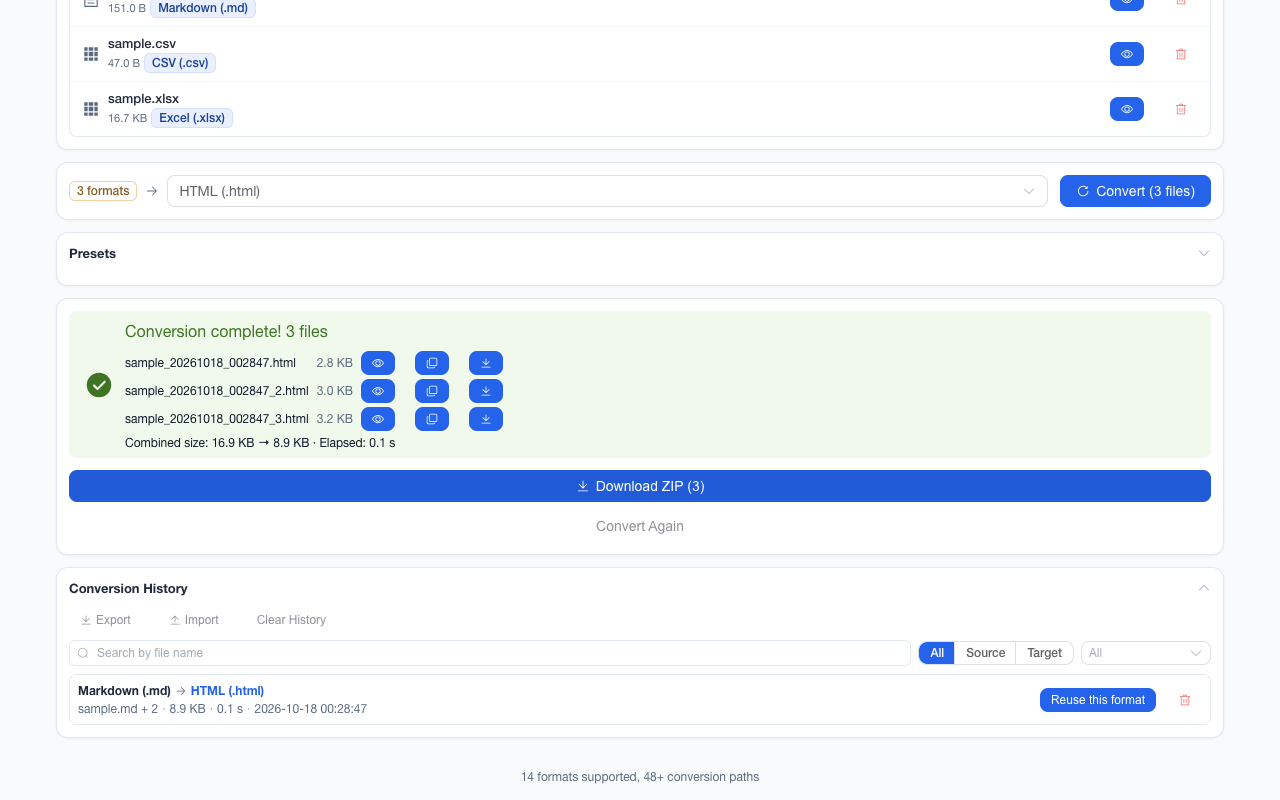
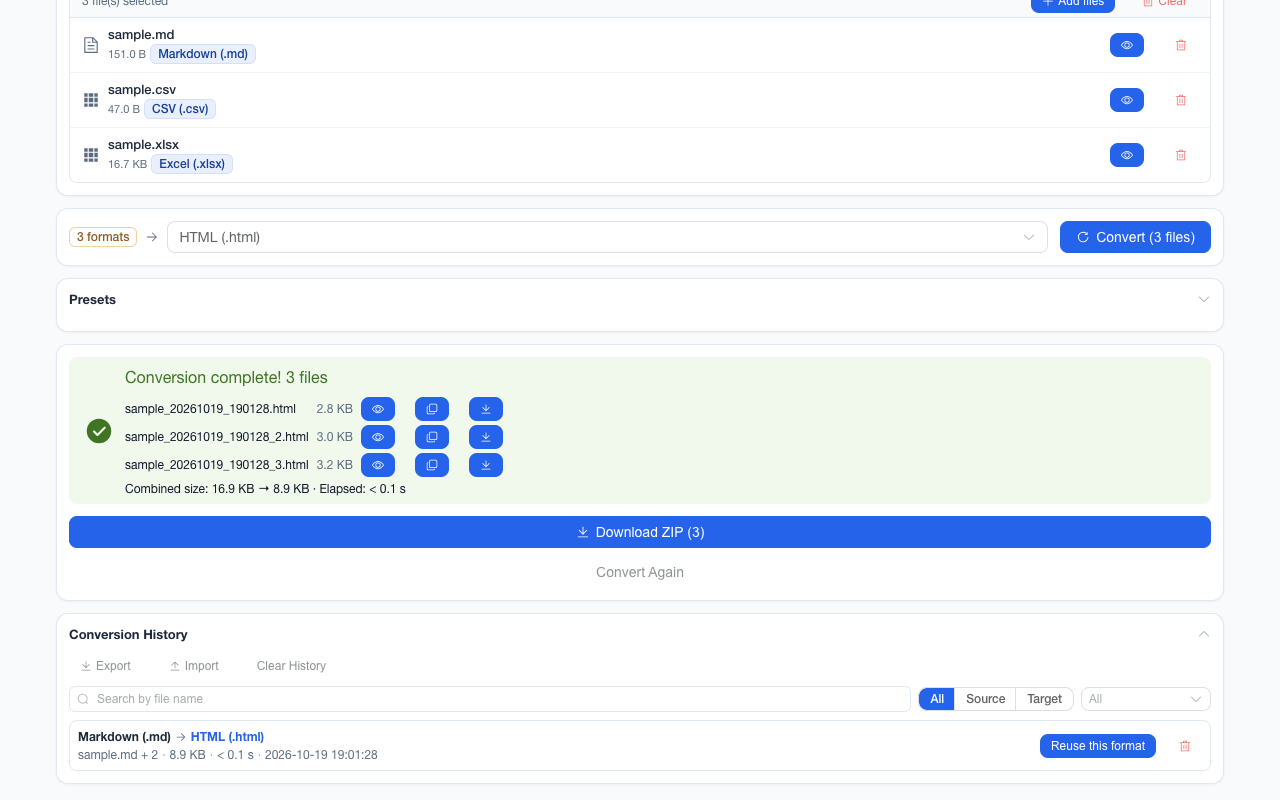
feat(ui): 格式数与路径数那行字从页脚搬进空态拖放区，五处耦合一起跟上
判据不是审美。这行字回答的是「我这格式能不能转」，而这个疑问在放入文件**之前**产生；页脚在 900px 高的
窗口里位于折叠区之外，等于从来没被读到。顶栏不是落点——它不 sticky，而且已经载着副标题那一行价值主张。
放入文件之后，目标下拉列出的是这批文件真正可达的目标，那本来就是比全局计数更强的信息，所以这行只在
空态出现一次，不随状态位移。

一次挪动的真实半径是五处，没有一处是编译器会管的：

- `utils/i18n/{zh,en}.ts`：键从 `footer.stats` 改成 `upload.stats`（`en.ts` 是 `typeof zh`，只改一边即编译红）。
- `App.vue`：删 `<footer>` 与它的两条规则，并把 `.footer` 从主题过渡的选择器组里摘出来——那段注释也点名了
  页脚，一起改，否则注释又是一句不成立的主张。
- `FileUpload.vue`：收两个 `number` props。数值**仍由 `App.vue` 的 `formatCount`/`pathCount` 算出后传下去**，
  因为对外文档引用的取证位置就是这两个量；渲染点挪了，取证点没挪。计数为 0 时整行不渲染——空注册表万一
  先渲染，屏幕上就会写着「支持 0 种格式」。
- `scripts/e2e-test.mjs`：三处读点换选择器（能力计数那一条，加中英两次语言切换的复读）。
- `INFO_TEXT` 那五个正文信息文字采样点里 `.footer` 换成 `.drop-stats`。这条最要紧：**删而不换会让「五组
  对比度」那句对外主张变成 overstated**，而没有任何门会红。

数值 1:1 迁移，断言总数仍是 358（换判据不等于改契约），所以那十句对外散文一个字没动。素材按规则重拍：
这一行落在被拍的 `workbench-empty` 屏的像素上，24 张全更新，取证行现在由脚本自己打
`workbench drop zone reports: "14 formats supported, 48+ conversion paths"`。

顺带一处守卫口径修正：`check-prose-numbers.mjs` 的 `routes` 中文模式原先**要求量词「条」**，而界面自己写的
是「48+ 转换路径」——凡逐字引用界面文案的句子，守卫都读不到。把量词改成可选之后 57 份文档的计数一格没变
（说明它只是终于看见了那行字，不是放进来了新的误报），`AGENTS.md`、两份 README 与商店表里的取证句同步改写。

一条接受而非修掉的副作用：拖放板是 `role="button"`，可访问名由内容算出，所以这一行会进按钮名。它与粘贴
提示同属板内既有形状；给它 `aria-hidden` 等于把信息对读屏整体抹掉，给板加 `aria-label` 又是另一处可见
行为，两者都没做。

验证：`lint:all`（typecheck + eslint + stylelint + format:check）、`build`、两道离线守卫与两道远程代码守卫
（产物 manifest 仍只有 `storage`）、`verify:paths`、`verify:numbers`（23 事实 × 57 份散文）、`verify:listing`、
[…]

diff --git a/entrypoints/options/App.vue b/entrypoints/options/App.vue
@@ -425,6 +425,8 @@ onUnmounted(() => {
             <FileUpload
               ref="fileUploadRef"
               :disabled="isConverting"
+              :formats="formatCount"
+              :paths="pathCount"
               @update:files="handleFilesUpdate"
             />
           </div>
@@ -627,10 +629,6 @@ onUnmounted(() => {
         </div>
       </main>
 
-      <footer class="footer">
-        {{ t('footer.stats', { formats: formatCount, paths: pathCount }) }}
-      </footer>
-
       <Transition name="fat-fade">
         <div
           v-if="isWorkspaceDragging"
@@ -831,19 +829,10 @@ onUnmounted(() => {
   margin-top: var(--fat-space-xs);
 }
 
-.footer {
-  max-width: 1200px;
-  margin: 0 auto;
-  text-align: center;
-  padding: var(--fat-space-lg);
-  font-size: 12px;
-  color: var(--fat-text-secondary);
-}
-
 /* Theme and light/dark switching rewrite every `--fat-*` colour in one frame. The interactive
    surfaces already tween their colours, so a theme change visibly fell apart into two groups: the
-   buttons, chips and inputs slid over 0.18s while the page, the topbar, the cards and the footer
-   snapped instantly. These are the permanently-painted surfaces that carry the theme, and they were
+   buttons, chips and inputs slid over 0.18s while the page, the topbar and the cards snapped
+   instantly. These are the permanently-painted surfaces that carry the theme, and they were
    the ones left out.
    Three named properties rather than `--fat-transition`: that shorthand also carries `transform`,
    and `.card` is the element the `card` transition below animates — a competing transform transition
@@ -852,8 +841,7 @@ onUnmounted(() => {
    stays inside the settle window the contrast measurements in `scripts/e2e-test.mjs` wait out. */
 .workbench,
 .topbar,
-.card,
-.footer {
+.card {
   transition:
     background-color var(--fat-duration-slow) var(--fat-ease-standard),
     border-color var(--fat-duration-slow) var(--fat-ease-standard),

diff --git a/components/shared/FileUpload.vue b/components/shared/FileUpload.vue
@@ -21,8 +21,12 @@ const props = withDefaults(
     multiple?: boolean;
     /** Blocks all file intake (click/drop/paste), e.g. while converting */
     disabled?: boolean;
+    /** Registry counts rendered under the drop hint. Passed in rather than computed here because the
+     * workbench's own numbers are the provenance the outward docs cite for "14 formats / 48+ paths". */
+    formats?: number;
+    paths?: number;
   }>(),
-  { multiple: true, disabled: false },
+  { multiple: true, disabled: false, formats: 0, paths: 0 },
 );
 
 const emit = defineEmits<{
@@ -486,6 +490,14 @@ defineExpose({
       </el-icon>
       <p class="drop-text">{{ dropText }}</p>
       <p class="paste-hint">{{ t('upload.pasteHint', { key: pasteKey }) }}</p>
+      <!-- A zero would be a lie, and an empty registry is reachable if this ever renders before
+           `initConverters()` — so the line is gated on both counts, not printed as "0 formats". -->
+      <p
+        v-if="formats > 0 && paths > 0"
+        class="drop-stats"
+      >
+        {{ t('upload.stats', { formats, paths }) }}
+      </p>
     </div>
     <input
       id="file-upload-input"
@@ -662,6 +674,16 @@ defineExpose({
 }
 
 .paste-hint {
+  color: var(--fat-text-secondary);
+  margin: var(--fat-space-xs) 0 0;
+  font-size: 12px;
+}
+
+/* The capability line sits with the drop hint rather than in a page footer: the doubt it answers
+   ("我这格式能不能转") arises before anything is placed, and the footer was below the fold in a
+   900px window. Same ink and size as its sibling above, so the contrast contract keeps sampling
+   one shape — `.drop-stats` took `.footer`'s place in that list. */
+.drop-stats {
   color: var(--fat-text-secondary);
   margin: var(--fat-space-xs) 0 0;
   font-size: 12px;

diff --git a/utils/i18n/zh.ts b/utils/i18n/zh.ts
@@ -21,6 +21,9 @@ export default {
     drop: '拖拽文件或文件夹到此处，或点击选择文件',
     replace: '点击或拖拽以替换文件',
     pasteHint: '也可以直接 {key} 粘贴图片或文本',
+    /** Rendered in the empty drop zone, not the page footer: the doubt it answers ("我这格式能不能转")
+     arises before a file is placed, and the footer sits below the fold on a 900px window. */
+    stats: '支持 {formats} 种格式，{paths}+ 转换路径',
     selectedCount: '已选择 {count} 个文件',
     unknownFormat: '未知格式',
     unknownFormatNotice: '有 {count} 个文件无法识别格式，将无法转换',
@@ -385,7 +388,4 @@ export default {
   },
 
   // Footer
-  footer: {
-    stats: '支持 {formats} 种格式，{paths}+ 转换路径',
-  },
 };

diff --git a/utils/i18n/en.ts b/utils/i18n/en.ts
@@ -18,6 +18,7 @@ const en: typeof zh = {
     drop: 'Drop files or a folder here, or click to select',
     replace: 'Click or drag to replace files',
     pasteHint: 'You can also paste an image or text with {key}',
+    stats: '{formats} formats supported, {paths}+ conversion paths',
     selectedCount: '{count} file(s) selected',
     unknownFormat: 'Unknown format',
     unknownFormatNotice: '{count} file(s) have an unrecognized format and cannot be converted',
@@ -367,10 +368,6 @@ const en: typeof zh = {
     // Accessible names for controls with no visible label (el-select, etc.)
     targetFormat: 'Target format',
     historyFormatFilter: 'Filter history by format',
-  },
-
-  footer: {
-    stats: '{formats} formats supported, {paths}+ conversion paths',
   },
 };
 

diff --git a/AGENTS.md b/AGENTS.md
@@ -145,7 +145,7 @@
   缺产物即失败），别用「源码没 fetch」推「包是干净的」；构建期那条正则也可能随版本静默失配，守卫就是它的兜底。
   反方向的过度反应同样要避免：jszip 的空 `<script>` 调度垫片、lodash 的 `Function('return this')()`、SheetJS 的
   XML 命名空间字符串都不是远程取来的代码，不要顺手清掉或加进守卫。
-- **对外文案数字要取证**：格式数 14 / 路径数 48+ 来自工作台页脚（`App.vue` 的 `formatCount`/`pathCount`，当前精确值为 14 与 48）；143 是同一邻接图的 BFS 传递闭包（每种源格式除自身外可达全部 11 种可写格式），**但 143 不能写成"可选/可用"**——`availableTargets` 还会经 `utils/core/conversion-policy.ts` 去掉 27 个语义无效组合（24 个图片 → TXT/CSV/JSON/XLSX + 3 个 PDF → CSV/JSON/XLSX），界面实际提供 **116** 个；体积来自 `pnpm build` 输出，阈值来自 `FileUpload.vue`（100MB 拒绝 / 20MB 警告 / 200 文件上限）与 `useConversion.ts`（>5 文件或 >20MB 弹确认），ZIP 压缩收益来自 `utils/core/format.ts` 的 JSDoc 实测记录；改这些常量时同步改 `README*`、`docs/*`、`.github/CHROMEWEBSTORE.md`。**这条口径现在由 `pnpm verify:numbers` 执行**：23 个数字全部现推（`FileFormat` 枚举、路径基线、`conversion-policy`、各处常量、主题数，按 `verify:listing` 同一种量法测出的两份商店详描字符数，以及 `scripts/e2e-test.mjs` 在一轮完整绿灯运行末尾记下的断言总数——这一个是测试跑出来的事实，源码答不了它），比对 57 份对外散文（含 `docs/convert/` 的 36 个生成页、`docs/privacy.html`、`docs/blog/index.html`、`docs/diff/index.html` 与两份 `docs/promo/community-posts*.md`——生成页由 `generatedPages('convert')` 枚举，缺目录即失败而不是静默跳过；`docs/diff/index.html` 不在那一路，它是 `tools/file-diff.html` 的逐字节副本，只能点名收进 `DOCS`，不点名就等于这张对外页不在射程内），`scripts/__baseline__/prose-number-quotes.json` 还记着每份文档每类句子今天被引到几次——句子被改写走到处查不到，就是基线 diff 里少掉的那一格。历史陈述不在射程内（CHANGELOG 的 1.0.0 段、`.github/CHROMEWEBSTORE.md` 的版本历史与拒审记录按文件排除）。
+- **对外文案数字要取证**：格式数 14 / 路径数 48+ 印在工作台空态的拖放区（`FileUpload.vue` 的 `.drop-stats`，数值仍由 `App.vue` 的 `formatCount`/`pathCount` 算出后作 props 传下去，当前精确值为 14 与 48；这行字原先在页脚，因为 900px 高的窗口里它在折叠区之外而挪了上来）；143 是同一邻接图的 BFS 传递闭包（每种源格式除自身外可达全部 11 种可写格式），**但 143 不能写成"可选/可用"**——`availableTargets` 还会经 `utils/core/conversion-policy.ts` 去掉 27 个语义无效组合（24 个图片 → TXT/CSV/JSON/XLSX + 3 个 PDF → CSV/JSON/XLSX），界面实际提供 **116** 个；体积来自 `pnpm build` 输出，阈值来自 `FileUpload.vue`（100MB 拒绝 / 20MB 警告 / 200 文件上限）与 `useConversion.ts`（>5 文件或 >20MB 弹确认），ZIP 压缩收益来自 `utils/core/format.ts` 的 JSDoc 实测记录；改这些常量时同步改 `README*`、`docs/*`、`.github/CHROMEWEBSTORE.md`。**这条口径现在由 `pnpm verify:numbers` 执行**：23 个数字全部现推（`FileFormat` 枚举、路径基线、`conversion-policy`、各处常量、主题数，按 `verify:listing` 同一种量法测出的两份商店详描字符数，以及 `scripts/e2e-test.mjs` 在一轮完整绿灯运行末尾记下的断言总数——这一个是测试跑出来的事实，源码答不了它），比对 57 份对外散文（含 `docs/convert/` 的 36 个生成页、`docs/privacy.html`、`docs/blog/index.html`、`docs/diff/index.html` 与两份 `docs/promo/community-posts*.md`——生成页由 `generatedPages('convert')` 枚举，缺目录即失败而不是静默跳过；`docs/diff/index.html` 不在那一路，它是 `tools/file-diff.html` 的逐字节副本，只能点名收进 `DOCS`，不点名就等于这张对外页不在射程内），`scripts/__baseline__/prose-number-quotes.json` 还记着每份文档每类句子今天被引到几次——句子被改写走到处查不到，就是基线 diff 里少掉的那一格。历史陈述不在射程内（CHANGELOG 的 1.0.0 段、`.github/CHROMEWEBSTORE.md` 的版本历史与拒审记录按文件排除）。
 
 ## 完成标准
 

diff --git a/.github/CHROMEWEBSTORE.md b/.github/CHROMEWEBSTORE.md
@@ -549,7 +549,7 @@ caption 条是叠上去的，不是裁出来的：界面保持完整的 1280×80
 
 ### 逐张说明
 
-1. `workbench-empty` —— 首次打开的状态：顶栏品牌 + 副标题、拖放区、空历史，以及「支持 14 种格式，48+ 条转换路径」的页脚。给全新用户设定预期。
+1. `workbench-empty` —— 首次打开的状态：顶栏品牌 + 副标题、拖放区（含「支持 14 种格式，48+ 转换路径」那一行）、空历史。给全新用户设定预期。
 2. `batch-files` —— 三个混格式文件（Markdown + CSV + Excel）配一个目标，展示多数转换器缺的批量能力。
 3. `batch-results` —— 「转换完成！3 个文件」，带逐文件的预览 / 复制 / 下载，以及一个「打包下载 ZIP (3)」。
 4. `preview-edit` —— 源 ↔ 结果左右对照，带 渲染 / 源码 / 编辑 / 复制 控件。最强的差异点，也是产品说明页的主图。
@@ -818,7 +818,7 @@ rm -f /tmp/cws.cfg
   路，代价是那张图在 .docx 与 .md 里是位图，放大不再是矢量。README 与产品页同步写明这一点。
 - 五组对比度由端到端套件在 6 主题色 × 浅/深（12 种组合）下断言：顶栏品牌文字对顶栏 ≥ 4.5:1；主按钮标签在
   常态 / hover / 按下三态 ≥ 4.5:1（取自已启用的按钮，因为文本规则豁免禁用控件）；卡片上的焦点环 ≥ 3:1；
-  正文信息文字（拖放提示、文件大小、页脚等五串）对各自底色 ≥ 4.5:1；Element Plus 浅色效果的警示框标题与
+  正文信息文字（拖放提示、文件大小、拖放区那行能力计数等五串）对各自底色 ≥ 4.5:1；Element Plus 浅色效果的警示框标题与
   文件行的格式标签（同一支语义色同时当墨与底）对各自的浅色底 ≥ 4.5:1。
   最差实测值（2026-09-14）：4.70:1。已知缺口：控件的填充色还需要与它底下的表面满足 3:1（WCAG 1.4.11），
   12 种组合里 10 种满足，浅森林绿与橙色按钮不满足（2.21 / 2.96:1）——这一点写在 README 里，而不是当作已达标呈现。

diff --git a/README.en.md b/README.en.md
@@ -80,7 +80,7 @@ Most "free online converter" sites ask you to upload the file first. That is fin
   <a href="docs/assets/screenshots/workbench-empty.png"><img src="docs/assets/screenshots/workbench-empty.png" alt="The empty workbench: a drop zone inviting files, a target-format picker beside it, and the history card below" width="49%" /></a>
   <a href="docs/assets/screenshots/batch-files.png"><img src="docs/assets/screenshots/batch-files.png" alt="Three mixed-format files staged in the workbench: sample.md, sample.csv and sample.xlsx, with HTML selected as the target format" width="49%" /></a>
   <br />
-  <sub><b>Left: drop, pick a format, convert on your own machine</b> (the footer derives the format and route counts) ｜ <b>Right: Markdown, CSV and Excel in one run</b> (each file resolves its own route to the shared target)</sub>
+  <sub><b>Left: drop, pick a format, convert on your own machine</b> (the drop zone shows the format and route counts) ｜ <b>Right: Markdown, CSV and Excel in one run</b> (each file resolves its own route to the shared target)</sub>
 </p>
 
 <p align="center">

diff --git a/README.md b/README.md
@@ -79,7 +79,7 @@
   <a href="docs/assets/screenshots/workbench-empty.png"><img src="docs/assets/screenshots/workbench-empty.png" alt="空白的工作台：邀请拖入文件的上传区、旁边的目标格式选择器，以及下方的历史记录卡片" width="49%" /></a>
   <a href="docs/assets/screenshots/batch-files.png"><img src="docs/assets/screenshots/batch-files.png" alt="工作台中已加入三个混合格式文件：sample.md、sample.csv 与 sample.xlsx，目标格式选为 HTML" width="49%" /></a>
   <br />
-  <sub><b>左：拖入、选格式，在你自己电脑上转换</b>（页脚给出格式数与路径数）｜ <b>右：Markdown、CSV、Excel 一次转完</b>（每个文件各自求出到公共目标的路径）</sub>
+  <sub><b>左：拖入、选格式，在你自己电脑上转换</b>（拖放区给出格式数与路径数）｜ <b>右：Markdown、CSV、Excel 一次转完</b>（每个文件各自求出到公共目标的路径）</sub>
 </p>
 
 <p align="center">
